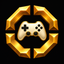
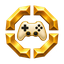
fixes

diff --git a/tests/test_ui_lifecycle.py b/tests/test_ui_lifecycle.py
@@ -87,6 +87,23 @@ class UILifecycleTests(unittest.TestCase):
             assert(writes==1 and not W.KeyboardBindings.active and not k.session and not box:HasFocus() and #HOST.sent==0)
         ''')
 
+    def test_unfocused_native_chat_field_is_never_refocused_by_the_addon(self):
+        self.run_lua('''
+            local k=W.Keyboard
+            local box=HOST.Field("ChatFrame1EditBox","draft");box:SetAttribute("chatType","PARTY")
+            box.chatFrame=ChatFrame1;box:SetFocus();k:Open(box)
+            W.ControllerMode=function()return true end
+            local calls=0;local focus=box.SetFocus
+            box.SetFocus=function(...)calls=calls+1;return focus(...)end
+            assert(k:FocusField()==true and calls==0)
+            box:ClearFocus()
+            assert(k:FocusField()==false and calls==0 and not box:HasFocus())
+            local other=HOST.Field("OtherNativeBox","x");other:SetFocus();k:Close();k:Open(other);other:ClearFocus()
+            local refocused=0;local plain=other.SetFocus
+            other.SetFocus=function(...)refocused=refocused+1;return plain(...)end
+            if k.session then assert(k:FocusField()==true and refocused==1) end
+        ''')
+
     def test_native_radial_suspends_capture_then_restores_only_visible_windows(self):
         self.run_lua('''
             local k=W.Keyboard;local box=HOST.Field("ChatFrame1EditBox","kept")

diff --git a/tools/export-branding.py b/tools/export-branding.py
@@ -8,10 +8,13 @@ media = root / "WoWEnhancedController/Media"
 exports.mkdir(parents=True, exist_ok=True)
 media.mkdir(parents=True, exist_ok=True)
 
-for name, source in (("suite-mark", "suite-mark-v1.png"), ("controller", "controller-icon-v1.png")):
+for name, source in (("suite-mark", "suite-mark-transparent-v2.png"), ("controller", "controller-icon-transparent-v2.png")):
     with Image.open(root / "branding/source" / source) as original:
         assert original.width == original.height, "Artwork must be square"
         image = original.convert("RGBA")
+        alpha = image.getchannel("A")
+        assert alpha.getextrema() == (0, 255), f"{source} must contain transparent and opaque pixels"
+        assert alpha.getpixel((0, 0)) == 0, f"{source} must have a clear background"
         image.resize((400, 400), Image.Resampling.LANCZOS).save(exports / (name + "-400.png"), optimize=True)
         if name == "controller":
             icon = image.resize((128, 128), Image.Resampling.LANCZOS)

diff --git a/branding/README.md b/branding/README.md
@@ -8,17 +8,19 @@ The four beveled gold crest segments identify the suite. The central symbol iden
 
 | File | Purpose |
 |---|---|
-| source/suite-mark-v1.png | 1254px original suite master |
-| source/controller-icon-v1.png | 1254px controller master |
+| source/suite-mark-v1.png | Original suite artwork on charcoal |
+| source/controller-icon-v1.png | Original controller artwork on charcoal |
+| [source/suite-mark-transparent-v2.png](source/suite-mark-transparent-v2.png) | Transparent suite master |
+| [source/controller-icon-transparent-v2.png](source/controller-icon-transparent-v2.png) | Transparent controller master |
 | source/suite-frame-transparent-v1.png | 1254px RGBA frame layer, clear center for future modules |
-| exports/suite-mark-400.png | Square suite avatar |
+| [exports/suite-mark-400.png](exports/suite-mark-400.png) | Transparent 400×400 suite avatar |
 | exports/suite-frame-preview.png | Transparent frame composited on black for preview only |
-| exports/controller-400.png | 400×400 PNG for CurseForge |
+| [exports/controller-400.png](exports/controller-400.png) | Transparent 400×400 PNG to upload as the Enhanced Controller project logo |
 | exports/controller-128.png | In-game export preview |
 | exports/controller-{20,32,64}.png | Small-size readability checks |
 | ../WoWEnhancedController/Media/Icon.tga | 128×128 uncompressed 32-bit RGBA game texture |
 
-CurseForge's [project submission guide](https://support.curseforge.com/support/solutions/articles/9000199552-project-submission-guide-and-tips) requests an original square PNG at least 400×400. The provided controller avatar is exactly 400×400. The larger sources stay outside the addon ZIP; only the small game texture ships in the addon.
+Use the controller avatar in the CurseForge project’s **Logo** field. It is exactly 400×400, as specified in the [CurseForge moderation policy](https://support.curseforge.com/support/solutions/articles/9000197279-moderation-policies). The suite avatar is for the addon family. Only the game texture ships in the addon ZIP.
 
 `tools/export-branding.py` performs uniform resampling and format conversion. It does not redraw the artwork. The transparent frame's alpha was checked over black and white; preserve alpha when reusing it. Some raw-image viewers show RGB values in nearly transparent edge pixels; normal alpha compositing renders the clean contour.
 
@@ -31,6 +33,13 @@ Forever source pin: `9dc84f0d3bbae1768ac3405b3716000bd93eda06` (1.60.1.70862). `
 ## Generation prompts
 
 Built-in image generation was used, not the API/CLI fallback. Source originals remain in the Codex generated_images folder as well as these workspace copies.
+
+### Transparent release masters (v2)
+
+The built-in tool edited each v1 master with transparent output enabled:
+
+- **Controller:** Use case: background-extraction. Edit target: the attached Enhanced Controller crest. Make a single square production icon by removing the black background from OUTSIDE AND INSIDE this four-piece gold crest and around the ivory controller. Keep the four gold angular metal pieces and controller (including its black D-pad, four black buttons and two sticks) as solid objects. Preserve the original silhouettes, spacing, centered placement, scale (~83% of canvas), gold bevels and ivory material. Remove background glow, colored fringe and cast shadows. Smooth antialiased contours on genuinely transparent alpha, including through all four open gaps and below the controller. No enclosing shape, checkerboard, lettering, new decorations or redesign.
+- **Suite:** Use case: background-extraction. Edit target: the attached suite crest. Make a single square production icon by removing the black background from OUTSIDE AND INSIDE the gold crest and around the central four-point spark. Keep only the four existing beveled gold metal corner pieces and the solid gold/ivory four-point spark. Preserve their original silhouettes, spacing, centered placement, scale (~83% of canvas), lighting and gold material. Remove the diffuse outer glow around the spark as well as any background shadows/fringe. The star's sharp points should be clean on light as well as dark surfaces. Smooth antialiased contours on genuinely transparent alpha. No enclosing shape, checkerboard, lettering, new decorations or redesign.
 
 ### Suite master
 

diff --git a/README.md b/README.md
@@ -178,7 +178,7 @@ python tools/validate-package.py
 
 The validator checks the TOC, binding headers, artwork format and exact ZIP contents, then writes `dist/manifest.json` with SHA-256 hashes. Generated packages, local caches and private design evidence are excluded from Git.
 
-The shipped branding assets are ready to use. Regenerating their size/format exports with `python tools/export-branding.py` additionally requires Pillow (`python -m pip install Pillow`).
+For the CurseForge project logo, upload [controller-400.png](branding/exports/controller-400.png), the transparent 400×400 controller crest. The [branding guide](branding/README.md) lists the matching suite mark and game texture. To regenerate the exports, install Pillow (`python -m pip install Pillow`) and run `python tools/export-branding.py`.
 The radial geometry exports are reproducible with `python tools/export-radial-art.py` using Pillow; labels, hit regions, spell/class art and controller prompts are separate native widgets.
 
 Version 0.4.0 adds the Settings wheel preview and spell/macro pickers. Picker/draft tests cover active learned spells, known flyouts, rank IDs, macro scope and slot shifts, search/paging, controller callbacks, UTF-8 labels, explicit saves and legacy/custom macros. UIForever checks and installation evidence are recorded in the task matrix.
